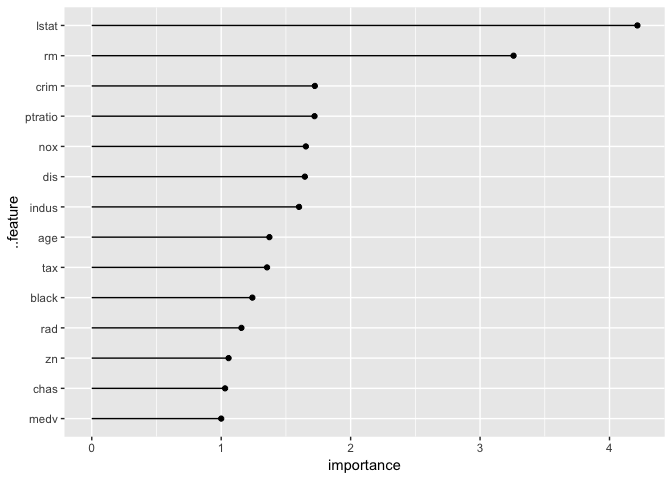
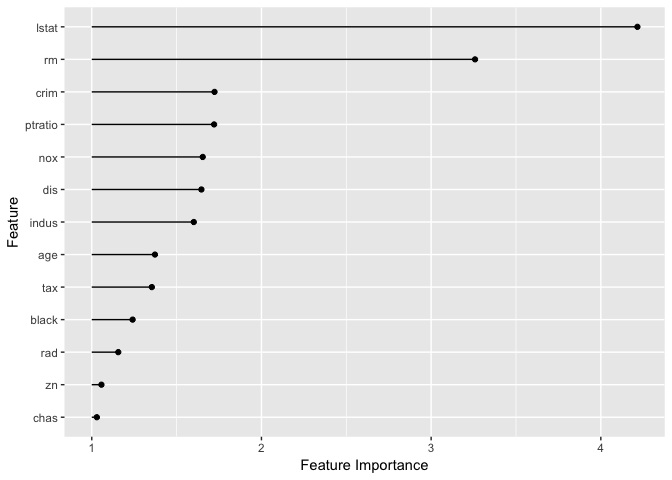
fixes example for feature importance

diff --git a/README.md b/README.md
@@ -38,39 +38,38 @@ library("iml")
 library("randomForest")
 data("Boston", package  = "MASS")
 rf = randomForest(medv ~ ., data = Boston, ntree = 50)
-model = Model$new(rf)
+model = Predictor$new(rf)
 ```
 
 #### What were the most important features? (Permutation feature importance / Model reliance)
 
 ``` r
-imp = FeatureImp$new(model, Boston, y = Boston$medv, loss = "mae")
+imp = FeatureImp$new(model, Boston[which(names(Boston) != "medv")], y = Boston$medv, loss = "mae")
 plot(imp)
 ```
 
-![](README_files/figure-markdown_github/unnamed-chunk-3-1.png)
+![](README_files/figure-markdown_github-ascii_identifiers/unnamed-chunk-3-1.png)
 
 ``` r
 imp$results
 ```
 
-    ## # A tibble: 14 x 3
-    ##    ..feature error importance
-    ##    <fct>     <dbl>      <dbl>
-    ##  1 lstat     4.23        4.29
-    ##  2 rm        3.71        3.76
-    ##  3 dis       1.66        1.68
-    ##  4 crim      1.65        1.67
-    ##  5 nox       1.64        1.66
-    ##  6 ptratio   1.58        1.60
-    ##  7 indus     1.47        1.49
-    ##  8 age       1.28        1.30
-    ##  9 tax       1.24        1.26
-    ## 10 black     1.24        1.25
-    ## 11 rad       1.11        1.12
-    ## 12 zn        1.09        1.11
-    ## 13 chas      1.01        1.03
-    ## 14 medv      0.988       1.00
+    ## # A tibble: 13 x 4
+    ##    feature original.error permutationError importance
+    ##    <fct>            <dbl>            <dbl>      <dbl>
+    ##  1 lstat             1.00             4.24       4.22
+    ##  2 rm                1.00             3.27       3.26
+    ##  3 crim              1.00             1.73       1.72
+    ##  4 ptratio           1.00             1.73       1.72
+    ##  5 nox               1.00             1.66       1.65
+    ##  6 dis               1.00             1.65       1.65
+    ##  7 indus             1.00             1.61       1.60
+    ##  8 age               1.00             1.38       1.37
+    ##  9 tax               1.00             1.36       1.35
+    ## 10 black             1.00             1.25       1.24
+    ## 11 rad               1.00             1.16       1.16
+    ## 12 zn                1.00             1.06       1.06
+    ## 13 chas              1.00             1.03       1.03
 
 ### Let"s build a single tree from the randomForest predictions! (Tree surrogate)
 
@@ -79,7 +78,7 @@ tree = TreeSurrogate$new(model, Boston[which(names(Boston) != "medv")], maxdepth
 plot(tree)
 ```
 
-![](README_files/figure-markdown_github/unnamed-chunk-4-1.png)
+![](README_files/figure-markdown_github-ascii_identifiers/unnamed-chunk-4-1.png)
 
 ### How does lstat influence the prediction on average? (Partial dependence plot)
 
@@ -88,7 +87,7 @@ pdp.obj = PartialDependence$new(model, Boston, feature = "lstat")
 plot(pdp.obj)
 ```
 
-![](README_files/figure-markdown_github/unnamed-chunk-5-1.png)
+![](README_files/figure-markdown_github-ascii_identifiers/unnamed-chunk-5-1.png)
 
 ### How does lstat influence the individual predictions? (ICE)
 
@@ -97,7 +96,7 @@ ice.curves = Ice$new(model, Boston[1:100,], feature = "lstat")
 plot(ice.curves) 
 ```
 
-![](README_files/figure-markdown_github/unnamed-chunk-6-1.png)
+![](README_files/figure-markdown_github-ascii_identifiers/unnamed-chunk-6-1.png)
 
 ### Explain a single prediction with a local linear model. (LIME)
 
@@ -106,16 +105,16 @@ lime.explain = Lime$new(model, Boston, x.interest = Boston[1,])
 lime.explain$results
 ```
 
-    ##             beta x.recoded     effect x.original feature feature.value
-    ## rm     0.6352285     6.575  4.1766275      6.575      rm      rm=6.575
-    ## lstat -0.0516669     4.980 -0.2573012       4.98   lstat    lstat=4.98
-    ## medv   0.7919096    24.000 19.0058305         24    medv       medv=24
+    ##              beta x.recoded     effect x.original feature feature.value
+    ## rm     0.37823223     6.575  2.4868769      6.575      rm      rm=6.575
+    ## lstat -0.04662682     4.980 -0.2322016       4.98   lstat    lstat=4.98
+    ## medv   0.79049115    24.000 18.9717876         24    medv       medv=24
 
 ``` r
 plot(lime.explain)
 ```
 
-![](README_files/figure-markdown_github/unnamed-chunk-7-1.png)
+![](README_files/figure-markdown_github-ascii_identifiers/unnamed-chunk-7-1.png)
 
 ### Explain a single prediction with game theory. (Shapley)
 
@@ -126,28 +125,28 @@ shapley.explain$results
 
     ## # A tibble: 14 x 4
     ## # Groups:   feature [?]
-    ##    feature      phi  phi.var featureValue
-    ##    <fct>      <dbl>    <dbl> <chr>       
-    ##  1 age     -0.0801   0.145   crim=0.00632
-    ##  2 black   -0.00383  0.0983  zn=18       
-    ##  3 chas    -0.00635  0.00660 indus=2.31  
-    ##  4 crim    -0.331    1.90    chas=0      
-    ##  5 dis     -0.370    2.73    nox=0.538   
-    ##  6 indus    0.595    1.30    rm=6.575    
-    ##  7 lstat    3.87    23.5     age=65.2    
-    ##  8 medv     0        0       dis=4.09    
-    ##  9 nox     -0.0175   1.25    rad=1       
-    ## 10 ptratio  0.491    0.917   tax=296     
-    ## 11 rad     -0.209    0.106   ptratio=15.3
-    ## 12 rm      -0.0712  10.4     black=396.9 
-    ## 13 tax      0.0147   0.140   lstat=4.98  
-    ## 14 zn       0.202    0.0937  medv=24
+    ##    feature     phi phi.var featureValue
+    ##    <fct>     <dbl>   <dbl> <chr>       
+    ##  1 age     -0.0504  0.396  crim=0.00632
+    ##  2 black    0.0291  0.266  zn=18       
+    ##  3 chas    -0.0201  0.0127 indus=2.31  
+    ##  4 crim    -0.198   1.35   chas=0      
+    ##  5 dis     -0.161   1.61   nox=0.538   
+    ##  6 indus    0.648   1.81   rm=6.575    
+    ##  7 lstat    3.80   21.1    age=65.2    
+    ##  8 medv     0       0      dis=4.09    
+    ##  9 nox      0.0631  1.39   rad=1       
+    ## 10 ptratio  0.813   1.10   tax=296     
+    ## 11 rad     -0.461   0.453  ptratio=15.3
+    ## 12 rm       0.117   8.07   black=396.9 
+    ## 13 tax     -0.147   0.514  lstat=4.98  
+    ## 14 zn      -0.102   0.0470 medv=24
 
 ``` r
 plot(shapley.explain)
 ```
 
-![](README_files/figure-markdown_github/unnamed-chunk-8-1.png)
+![](README_files/figure-markdown_github-ascii_identifiers/unnamed-chunk-8-1.png)
 
 Python Implementation
 =====================
